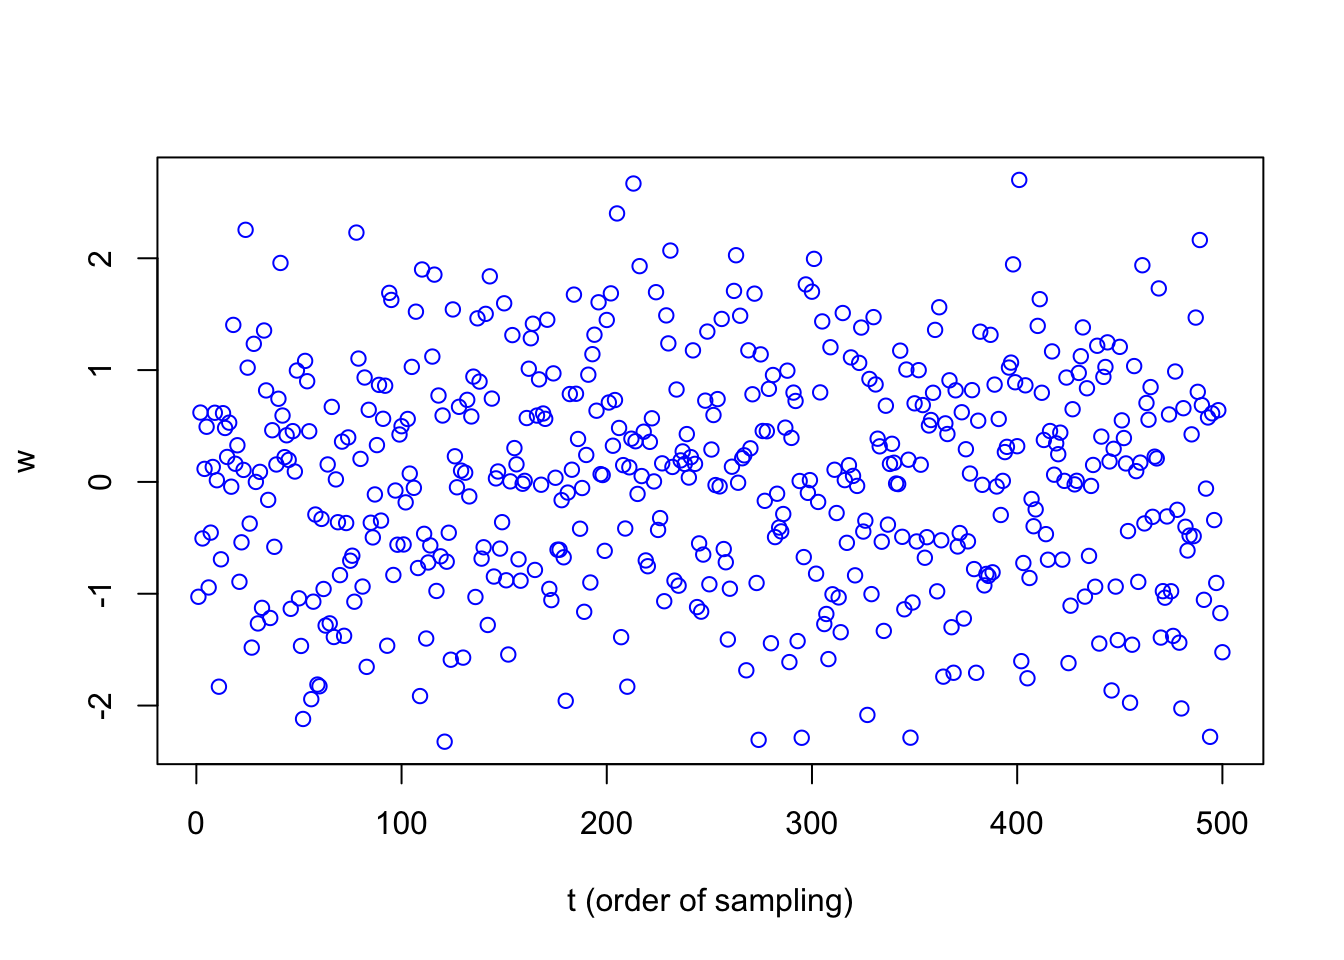
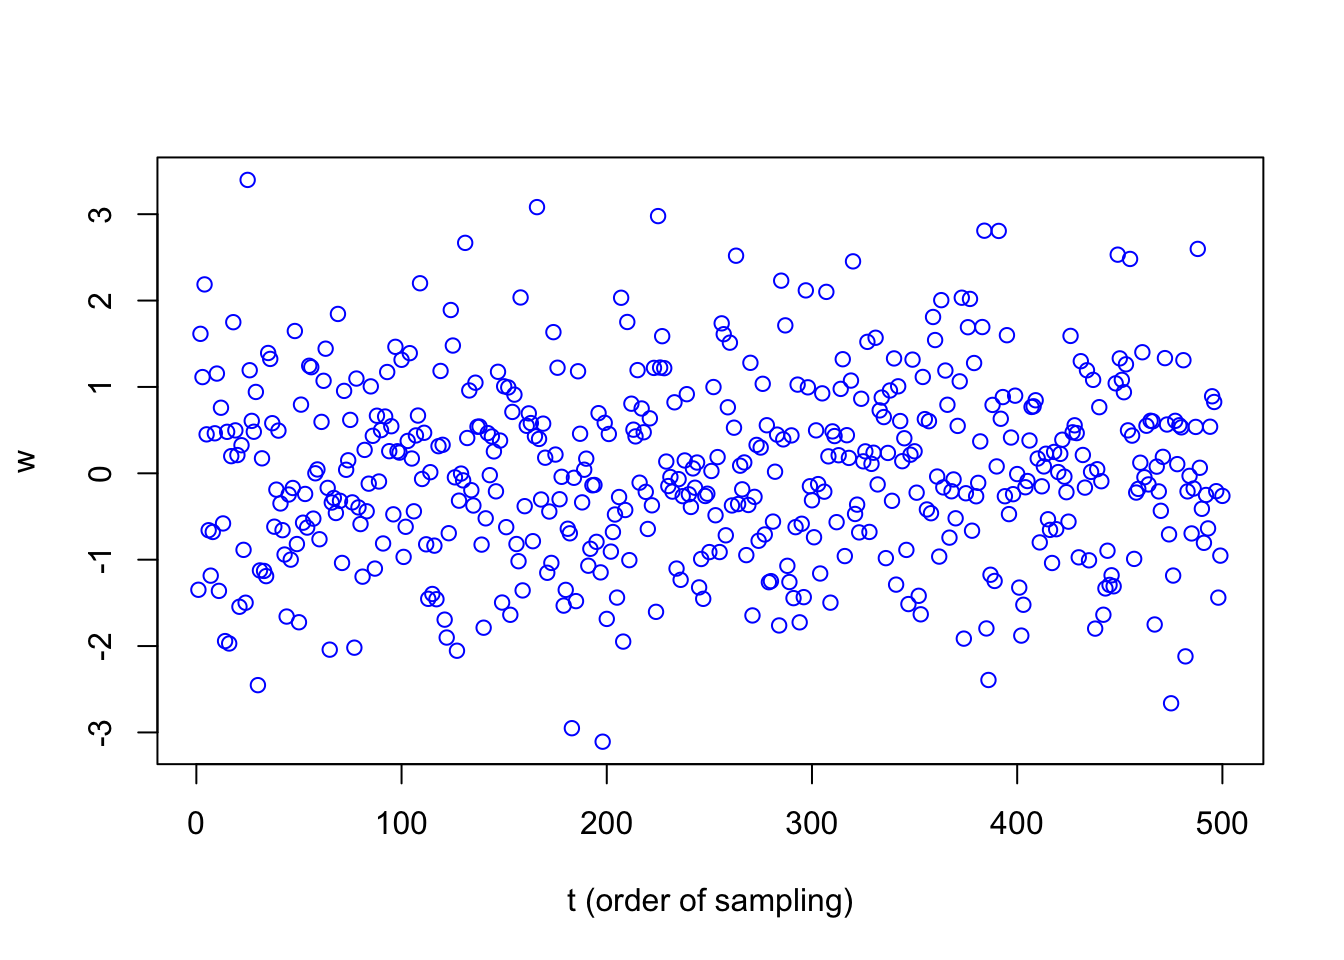
Built site for gh-pages

diff --git a/LectureNotes/Lecture2.html b/LectureNotes/Lecture2.html
@@ -255,14 +255,18 @@ window.Quarto = {
   <ul class="collapse">
   <li><a href="#r-example---moving-average-2" id="toc-r-example---moving-average-2" class="nav-link" data-scroll-target="#r-example---moving-average-2"><span class="header-section-number">7.1</span> R example - Moving Average</a></li>
   <li><a href="#r-example---moving-average-3" id="toc-r-example---moving-average-3" class="nav-link" data-scroll-target="#r-example---moving-average-3"><span class="header-section-number">7.2</span> R example - Moving Average</a></li>
-  <li><a href="#moving-averages-problem-1.1-part-a" id="toc-moving-averages-problem-1.1-part-a" class="nav-link" data-scroll-target="#moving-averages-problem-1.1-part-a"><span class="header-section-number">7.3</span> Moving Averages (Problem 1.1 Part a)</a></li>
-  <li><a href="#moving-averages-problem-1.1" id="toc-moving-averages-problem-1.1" class="nav-link" data-scroll-target="#moving-averages-problem-1.1"><span class="header-section-number">7.4</span> Moving Averages (Problem 1.1)</a></li>
-  <li><a href="#moving-averages-problem-1.1-part-b" id="toc-moving-averages-problem-1.1-part-b" class="nav-link" data-scroll-target="#moving-averages-problem-1.1-part-b"><span class="header-section-number">7.5</span> Moving Averages (Problem 1.1 part b)</a></li>
-  <li><a href="#moving-averages-problem-1.1-part-b-1" id="toc-moving-averages-problem-1.1-part-b-1" class="nav-link" data-scroll-target="#moving-averages-problem-1.1-part-b-1"><span class="header-section-number">7.6</span> Moving Averages (Problem 1.1 part b)</a></li>
-  <li><a href="#moving-averages-problem-1.1-part-c" id="toc-moving-averages-problem-1.1-part-c" class="nav-link" data-scroll-target="#moving-averages-problem-1.1-part-c"><span class="header-section-number">7.7</span> Moving Averages (Problem 1.1 part c)</a></li>
-  <li><a href="#moving-averages-problem-1.1-part-c-1" id="toc-moving-averages-problem-1.1-part-c-1" class="nav-link" data-scroll-target="#moving-averages-problem-1.1-part-c-1"><span class="header-section-number">7.8</span> Moving Averages (Problem 1.1 part c)</a></li>
-  <li><a href="#stationarity" id="toc-stationarity" class="nav-link" data-scroll-target="#stationarity"><span class="header-section-number">7.9</span> Stationarity</a></li>
-  <li><a href="#example-2.14-stationarity-of-a-random-walk" id="toc-example-2.14-stationarity-of-a-random-walk" class="nav-link" data-scroll-target="#example-2.14-stationarity-of-a-random-walk"><span class="header-section-number">7.10</span> Example 2.14 Stationarity of a Random Walk</a></li>
+  </ul></li>
+  <li><a href="#problem-1.1" id="toc-problem-1.1" class="nav-link" data-scroll-target="#problem-1.1"><span class="header-section-number">8</span> Problem 1.1</a>
+  <ul class="collapse">
+  <li><a href="#moving-averages-problem-1.1" id="toc-moving-averages-problem-1.1" class="nav-link" data-scroll-target="#moving-averages-problem-1.1"><span class="header-section-number">8.1</span> Moving Averages (Problem 1.1)</a></li>
+  <li><a href="#moving-averages-problem-1.1-part-a" id="toc-moving-averages-problem-1.1-part-a" class="nav-link" data-scroll-target="#moving-averages-problem-1.1-part-a"><span class="header-section-number">8.2</span> Moving Averages (Problem 1.1 Part a)</a></li>
+  <li><a href="#moving-averages-problem-1.1-1" id="toc-moving-averages-problem-1.1-1" class="nav-link" data-scroll-target="#moving-averages-problem-1.1-1"><span class="header-section-number">8.3</span> Moving Averages (Problem 1.1)</a></li>
+  <li><a href="#moving-averages-problem-1.1-part-b" id="toc-moving-averages-problem-1.1-part-b" class="nav-link" data-scroll-target="#moving-averages-problem-1.1-part-b"><span class="header-section-number">8.4</span> Moving Averages (Problem 1.1 part b)</a></li>
+  <li><a href="#moving-averages-problem-1.1-part-b-1" id="toc-moving-averages-problem-1.1-part-b-1" class="nav-link" data-scroll-target="#moving-averages-problem-1.1-part-b-1"><span class="header-section-number">8.5</span> Moving Averages (Problem 1.1 part b)</a></li>
+  <li><a href="#moving-averages-problem-1.1-part-c" id="toc-moving-averages-problem-1.1-part-c" class="nav-link" data-scroll-target="#moving-averages-problem-1.1-part-c"><span class="header-section-number">8.6</span> Moving Averages (Problem 1.1 part c)</a></li>
+  <li><a href="#moving-averages-problem-1.1-part-c-1" id="toc-moving-averages-problem-1.1-part-c-1" class="nav-link" data-scroll-target="#moving-averages-problem-1.1-part-c-1"><span class="header-section-number">8.7</span> Moving Averages (Problem 1.1 part c)</a></li>
+  <li><a href="#stationarity" id="toc-stationarity" class="nav-link" data-scroll-target="#stationarity"><span class="header-section-number">8.8</span> Stationarity</a></li>
+  <li><a href="#example-2.14-stationarity-of-a-random-walk" id="toc-example-2.14-stationarity-of-a-random-walk" class="nav-link" data-scroll-target="#example-2.14-stationarity-of-a-random-walk"><span class="header-section-number">8.9</span> Example 2.14 Stationarity of a Random Walk</a></li>
   </ul></li>
   </ul>
 </nav>
@@ -343,12 +347,12 @@ window.Quarto = {
 <tr class="odd">
 <td>1</td>
 <td><span class="math inline">\(w_1 \sim N(0, \sigma_w^2)\)</span></td>
-<td>0.5641923</td>
+<td>0.9570727</td>
 </tr>
 <tr class="even">
 <td>2</td>
 <td><span class="math inline">\(w_2 \sim N(0, \sigma_w^2)\)</span></td>
-<td>-1.4967887</td>
+<td>-2.2583316</td>
 </tr>
 <tr class="odd">
 <td></td>
@@ -358,7 +362,7 @@ window.Quarto = {
 <tr class="even">
 <td>t</td>
 <td><span class="math inline">\(w_t \sim N(0, \sigma^2_2)\)</span></td>
-<td>1.2733748</td>
+<td>-0.1932726</td>
 </tr>
 <tr class="odd">
 <td><span class="math inline">\(\vdots\)</span></td>
@@ -368,7 +372,7 @@ window.Quarto = {
 <tr class="even">
 <td>n</td>
 <td><span class="math inline">\(w_n \sim N(0, \sigma_w^2)\)</span></td>
-<td>-1.0855317</td>
+<td>0.4632871</td>
 </tr>
 </tbody>
 </table>
@@ -518,7 +522,7 @@ window.Quarto = {
 <tr class="even">
 <td>Moving average with <span class="math inline">\(p\)</span> points</td>
 <td><span class="math inline">\(w_1, w_2, \dots, w_n\)</span></td>
-<td><span class="math inline">\(v_t = \sum_{i = 1}^{p} w_{t-(p-i)}\)</span></td>
+<td><span class="math inline">\(v_t = \frac{1}{p}\sum_{i = 1}^{p} w_{t-(p-i)}\)</span></td>
 </tr>
 <tr class="odd">
 <td>Autoregression of order <span class="math inline">\(p\)</span></td>
@@ -1101,7 +1105,12 @@ Cov(X_\alpha, X_\beta) = \E[(X_\alpha - \mu_\alpha)(X_\beta - \mu_\beta)]
 </div>
 </div>
 </div>
-<p>’ # Problem 1.1 ## Moving Averages (Problem 1.1)</p>
+</section>
+</section>
+<section id="problem-1.1" class="level1" data-number="8">
+<h1 data-number="8"><span class="header-section-number">8</span> Problem 1.1</h1>
+<section id="moving-averages-problem-1.1" class="level2" data-number="8.1">
+<h2 data-number="8.1" class="anchored" data-anchor-id="moving-averages-problem-1.1"><span class="header-section-number">8.1</span> Moving Averages (Problem 1.1)</h2>
 <ul>
 <li>using a method similar to the code in Example 1.9, generate 100 observations from the autoregression <span class="math display">\[
 x_t = -0.9x_{t-2} + w_t\text{, }\\ w_t\sim N(0, 1)
@@ -1109,8 +1118,8 @@ x_t = -0.9x_{t-2} + w_t\text{, }\\ w_t\sim N(0, 1)
 <li>Write down an expression for <span class="math inline">\(\phi\)</span> for this autoregression. How is <span class="math inline">\(\phi\)</span> different from the autoregression in Example 1.9?</li>
 </ul>
 </section>
-<section id="moving-averages-problem-1.1-part-a" class="level2" data-number="7.3">
-<h2 data-number="7.3" class="anchored" data-anchor-id="moving-averages-problem-1.1-part-a"><span class="header-section-number">7.3</span> Moving Averages (Problem 1.1 Part a)</h2>
+<section id="moving-averages-problem-1.1-part-a" class="level2" data-number="8.2">
+<h2 data-number="8.2" class="anchored" data-anchor-id="moving-averages-problem-1.1-part-a"><span class="header-section-number">8.2</span> Moving Averages (Problem 1.1 Part a)</h2>
 <ul>
 <li><p>Apply the moving average filter to the autoregression data you generated <span class="math display">\[
 v_t = (x_t + x_{t-1} + x_{t-2} + x_{t-4})
@@ -1118,8 +1127,8 @@ v_t = (x_t + x_{t-1} + x_{t-2} + x_{t-4})
 <li><p>Plot <span class="math inline">\(x_t\)</span> as points and lines and <span class="math inline">\(v_t\)</span> as a line.</p></li>
 </ul>
 </section>
-<section id="moving-averages-problem-1.1" class="level2" data-number="7.4">
-<h2 data-number="7.4" class="anchored" data-anchor-id="moving-averages-problem-1.1"><span class="header-section-number">7.4</span> Moving Averages (Problem 1.1)</h2>
+<section id="moving-averages-problem-1.1-1" class="level2" data-number="8.3">
+<h2 data-number="8.3" class="anchored" data-anchor-id="moving-averages-problem-1.1-1"><span class="header-section-number">8.3</span> Moving Averages (Problem 1.1)</h2>
 <div class="cell">
 <details class="code-fold">
 <summary>Code</summary>
@@ -1139,16 +1148,16 @@ v_t = (x_t + x_{t-1} + x_{t-2} + x_{t-4})
 </div>
 </div>
 </section>
-<section id="moving-averages-problem-1.1-part-b" class="level2" data-number="7.5">
-<h2 data-number="7.5" class="anchored" data-anchor-id="moving-averages-problem-1.1-part-b"><span class="header-section-number">7.5</span> Moving Averages (Problem 1.1 part b)</h2>
+<section id="moving-averages-problem-1.1-part-b" class="level2" data-number="8.4">
+<h2 data-number="8.4" class="anchored" data-anchor-id="moving-averages-problem-1.1-part-b"><span class="header-section-number">8.4</span> Moving Averages (Problem 1.1 part b)</h2>
 <ul>
 <li>Repeat the application of the MA filter but instead of starting with an autoregression, generate data <span class="math inline">\(x_t\)</span> according to the signal plus noise model <span class="math display">\[
 x_t = 2\cos(2\pi t/4) + w_t\\ w_t \sim N(0,1)
 \]</span></li>
 </ul>
 </section>
-<section id="moving-averages-problem-1.1-part-b-1" class="level2" data-number="7.6">
-<h2 data-number="7.6" class="anchored" data-anchor-id="moving-averages-problem-1.1-part-b-1"><span class="header-section-number">7.6</span> Moving Averages (Problem 1.1 part b)</h2>
+<section id="moving-averages-problem-1.1-part-b-1" class="level2" data-number="8.5">
+<h2 data-number="8.5" class="anchored" data-anchor-id="moving-averages-problem-1.1-part-b-1"><span class="header-section-number">8.5</span> Moving Averages (Problem 1.1 part b)</h2>
 <div class="cell">
 <details class="code-fold">
 <summary>Code</summary>
@@ -1166,8 +1175,8 @@ x_t = 2\cos(2\pi t/4) + w_t\\ w_t \sim N(0,1)
 </div>
 </div>
 </section>
-<section id="moving-averages-problem-1.1-part-c" class="level2" data-number="7.7">
-<h2 data-number="7.7" class="anchored" data-anchor-id="moving-averages-problem-1.1-part-c"><span class="header-section-number">7.7</span> Moving Averages (Problem 1.1 part c)</h2>
+<section id="moving-averages-problem-1.1-part-c" class="level2" data-number="8.6">
+<h2 data-number="8.6" class="anchored" data-anchor-id="moving-averages-problem-1.1-part-c"><span class="header-section-number">8.6</span> Moving Averages (Problem 1.1 part c)</h2>
 <div class="cell">
 <details class="code-fold">
 <summary>Code</summary>
@@ -1185,8 +1194,8 @@ x_t = 2\cos(2\pi t/4) + w_t\\ w_t \sim N(0,1)
 </div>
 </div>
 </section>
-<section id="moving-averages-problem-1.1-part-c-1" class="level2" data-number="7.8">
-<h2 data-number="7.8" class="anchored" data-anchor-id="moving-averages-problem-1.1-part-c-1"><span class="header-section-number">7.8</span> Moving Averages (Problem 1.1 part c)</h2>
+<section id="moving-averages-problem-1.1-part-c-1" class="level2" data-number="8.7">
+<h2 data-number="8.7" class="anchored" data-anchor-id="moving-averages-problem-1.1-part-c-1"><span class="header-section-number">8.7</span> Moving Averages (Problem 1.1 part c)</h2>
 <div class="cell">
 <details class="code-fold">
 <summary>Code</summary>
@@ -1204,16 +1213,16 @@ x_t = 2\cos(2\pi t/4) + w_t\\ w_t \sim N(0,1)
 </div>
 </div>
 </section>
-<section id="stationarity" class="level2" data-number="7.9">
-<h2 data-number="7.9" class="anchored" data-anchor-id="stationarity"><span class="header-section-number">7.9</span> Stationarity</h2>
+<section id="stationarity" class="level2" data-number="8.8">
+<h2 data-number="8.8" class="anchored" data-anchor-id="stationarity"><span class="header-section-number">8.8</span> Stationarity</h2>
 <p>A time series is stationary if</p>
 <ul>
 <li>the mean function (<span class="math inline">\(\mu_t\)</span>) is constant and does not depend on time <span class="math inline">\(t\)</span></li>
 <li>the autocovariance function (<span class="math inline">\(\gamma(s,t)\)</span>) depends on <span class="math inline">\(s\)</span> and <span class="math inline">\(t\)</span> only though their difference</li>
 </ul>
 </section>
-<section id="example-2.14-stationarity-of-a-random-walk" class="level2" data-number="7.10">
-<h2 data-number="7.10" class="anchored" data-anchor-id="example-2.14-stationarity-of-a-random-walk"><span class="header-section-number">7.10</span> Example 2.14 Stationarity of a Random Walk</h2>
+<section id="example-2.14-stationarity-of-a-random-walk" class="level2" data-number="8.9">
+<h2 data-number="8.9" class="anchored" data-anchor-id="example-2.14-stationarity-of-a-random-walk"><span class="header-section-number">8.9</span> Example 2.14 Stationarity of a Random Walk</h2>
 <p>Look, it’s our friend the random walk:</p>
 <p><span class="math display">\[
 x_t = \delta t + \sum_{j = 1}^t w_j
